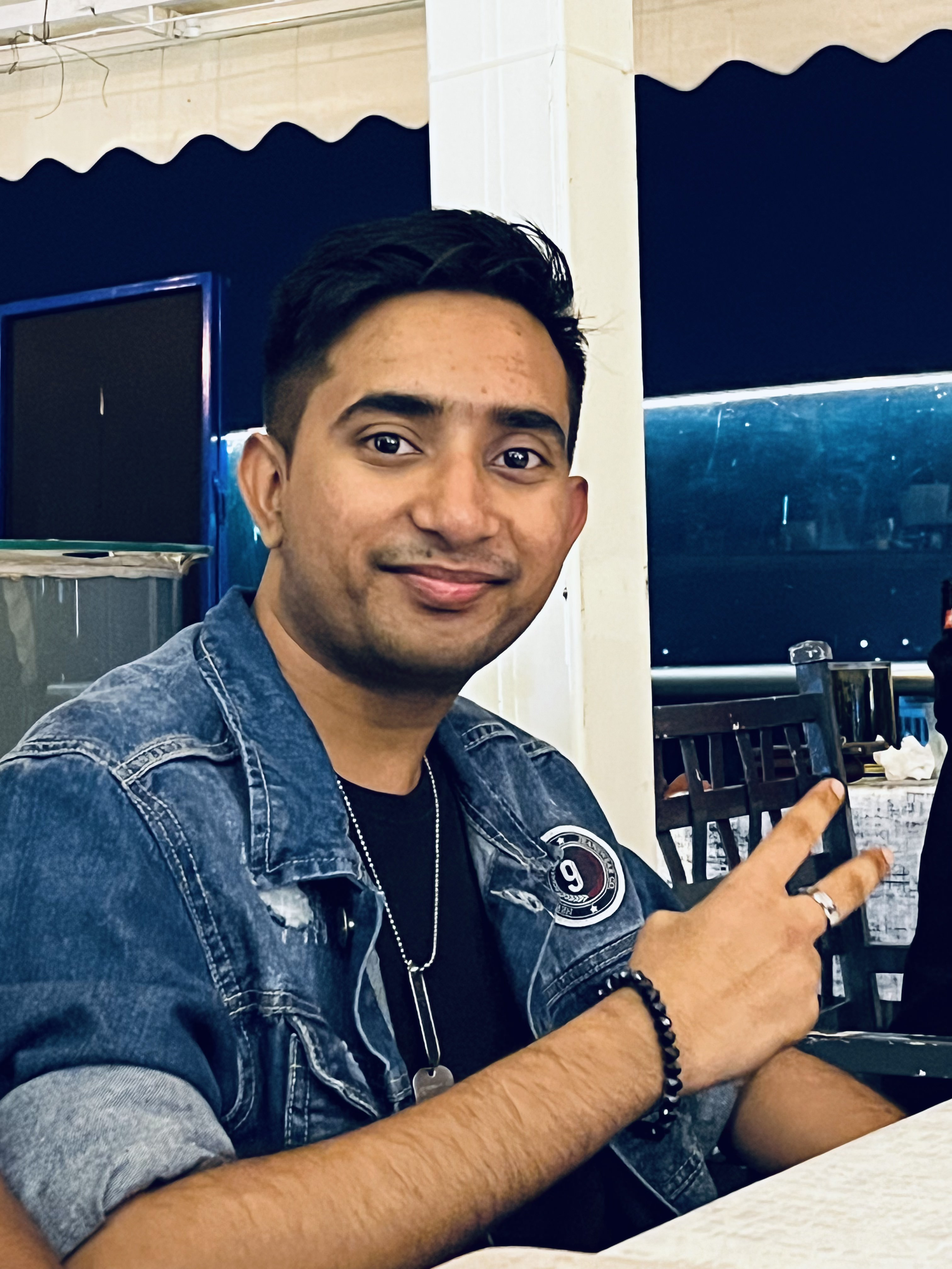
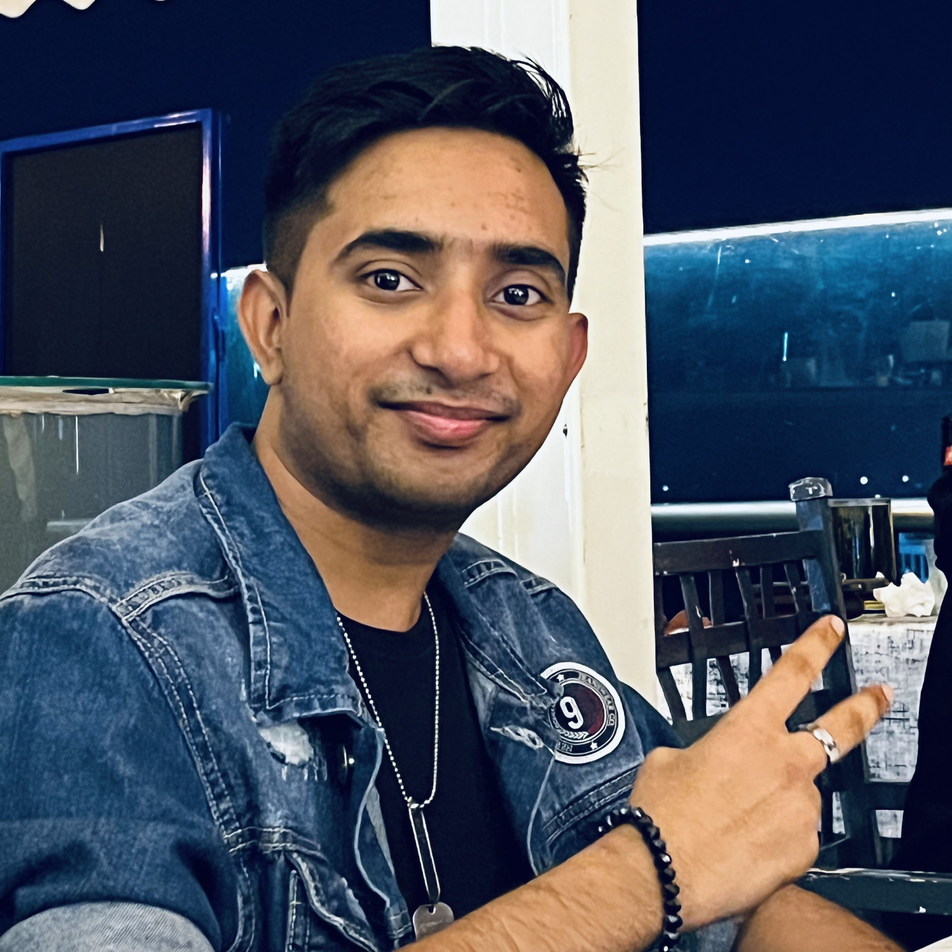
About page completed

diff --git a/public/css/styles.css b/public/css/styles.css
@@ -4,6 +4,7 @@
   margin: 0;
   padding: 0;
   box-sizing: border-box;
+  /* border: 1px solid black; */
 }
 
 :root {
@@ -288,4 +289,44 @@ form {
   color: var(--background-color);
   padding: 10px;
   cursor: pointer;
+}
+
+/* About */
+
+.about {
+  width: 78%;
+  margin: 10px auto;
+  padding: 20px;
+}
+
+.about h2 {
+  margin-bottom: 20px;
+}
+
+.about p {
+  margin-bottom: 20px;
+}
+
+.dev_profile {
+  width: 100%;
+  display: flex;
+  flex-direction: column;
+  align-items: center;
+  justify-content: center;
+  margin: 20px 0;
+}
+
+.dev_profile img {
+  height: 100px;
+  width: auto;
+  border-radius: 50%;
+  margin-bottom: 20px;
+}
+
+.dev_profile span {
+  font-size: 1.5rem;
+}
+
+.about_developer a {
+  color: var(--secondary-text-color);
 }

diff --git a/server/routes/main.js b/server/routes/main.js
@@ -7,5 +7,9 @@ router.get("/", (req, res) => {
   res.render("index");
 });
 
+router.get("/about", (req, res) => {
+  res.render("about");
+});
+
 // Exporting the Routes of main website
 export { router as mainRoute };
